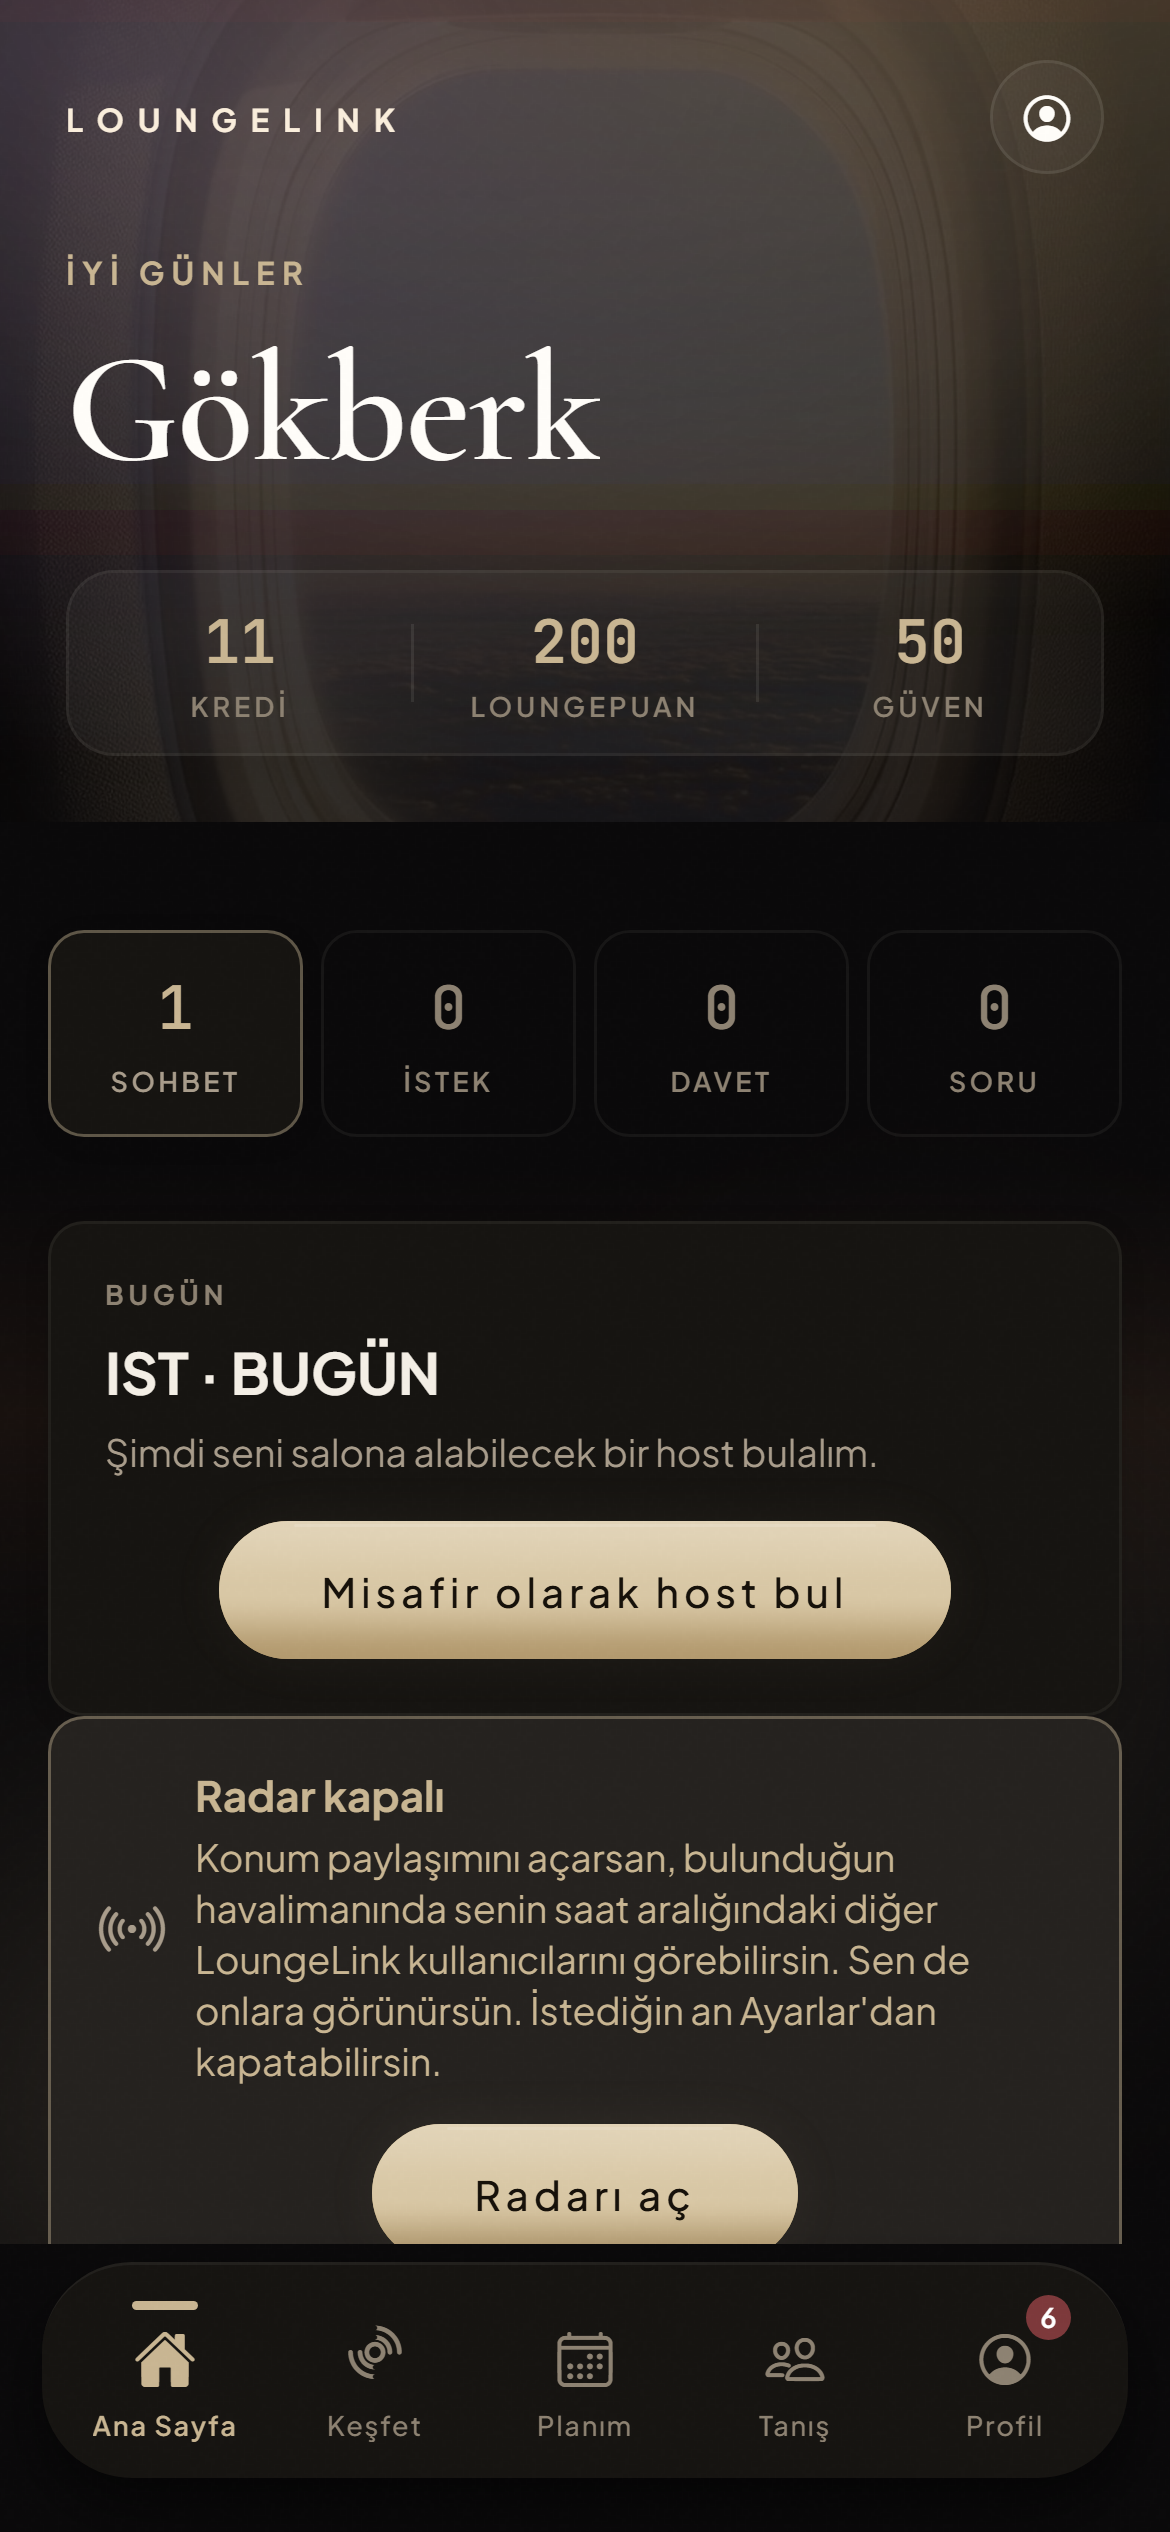
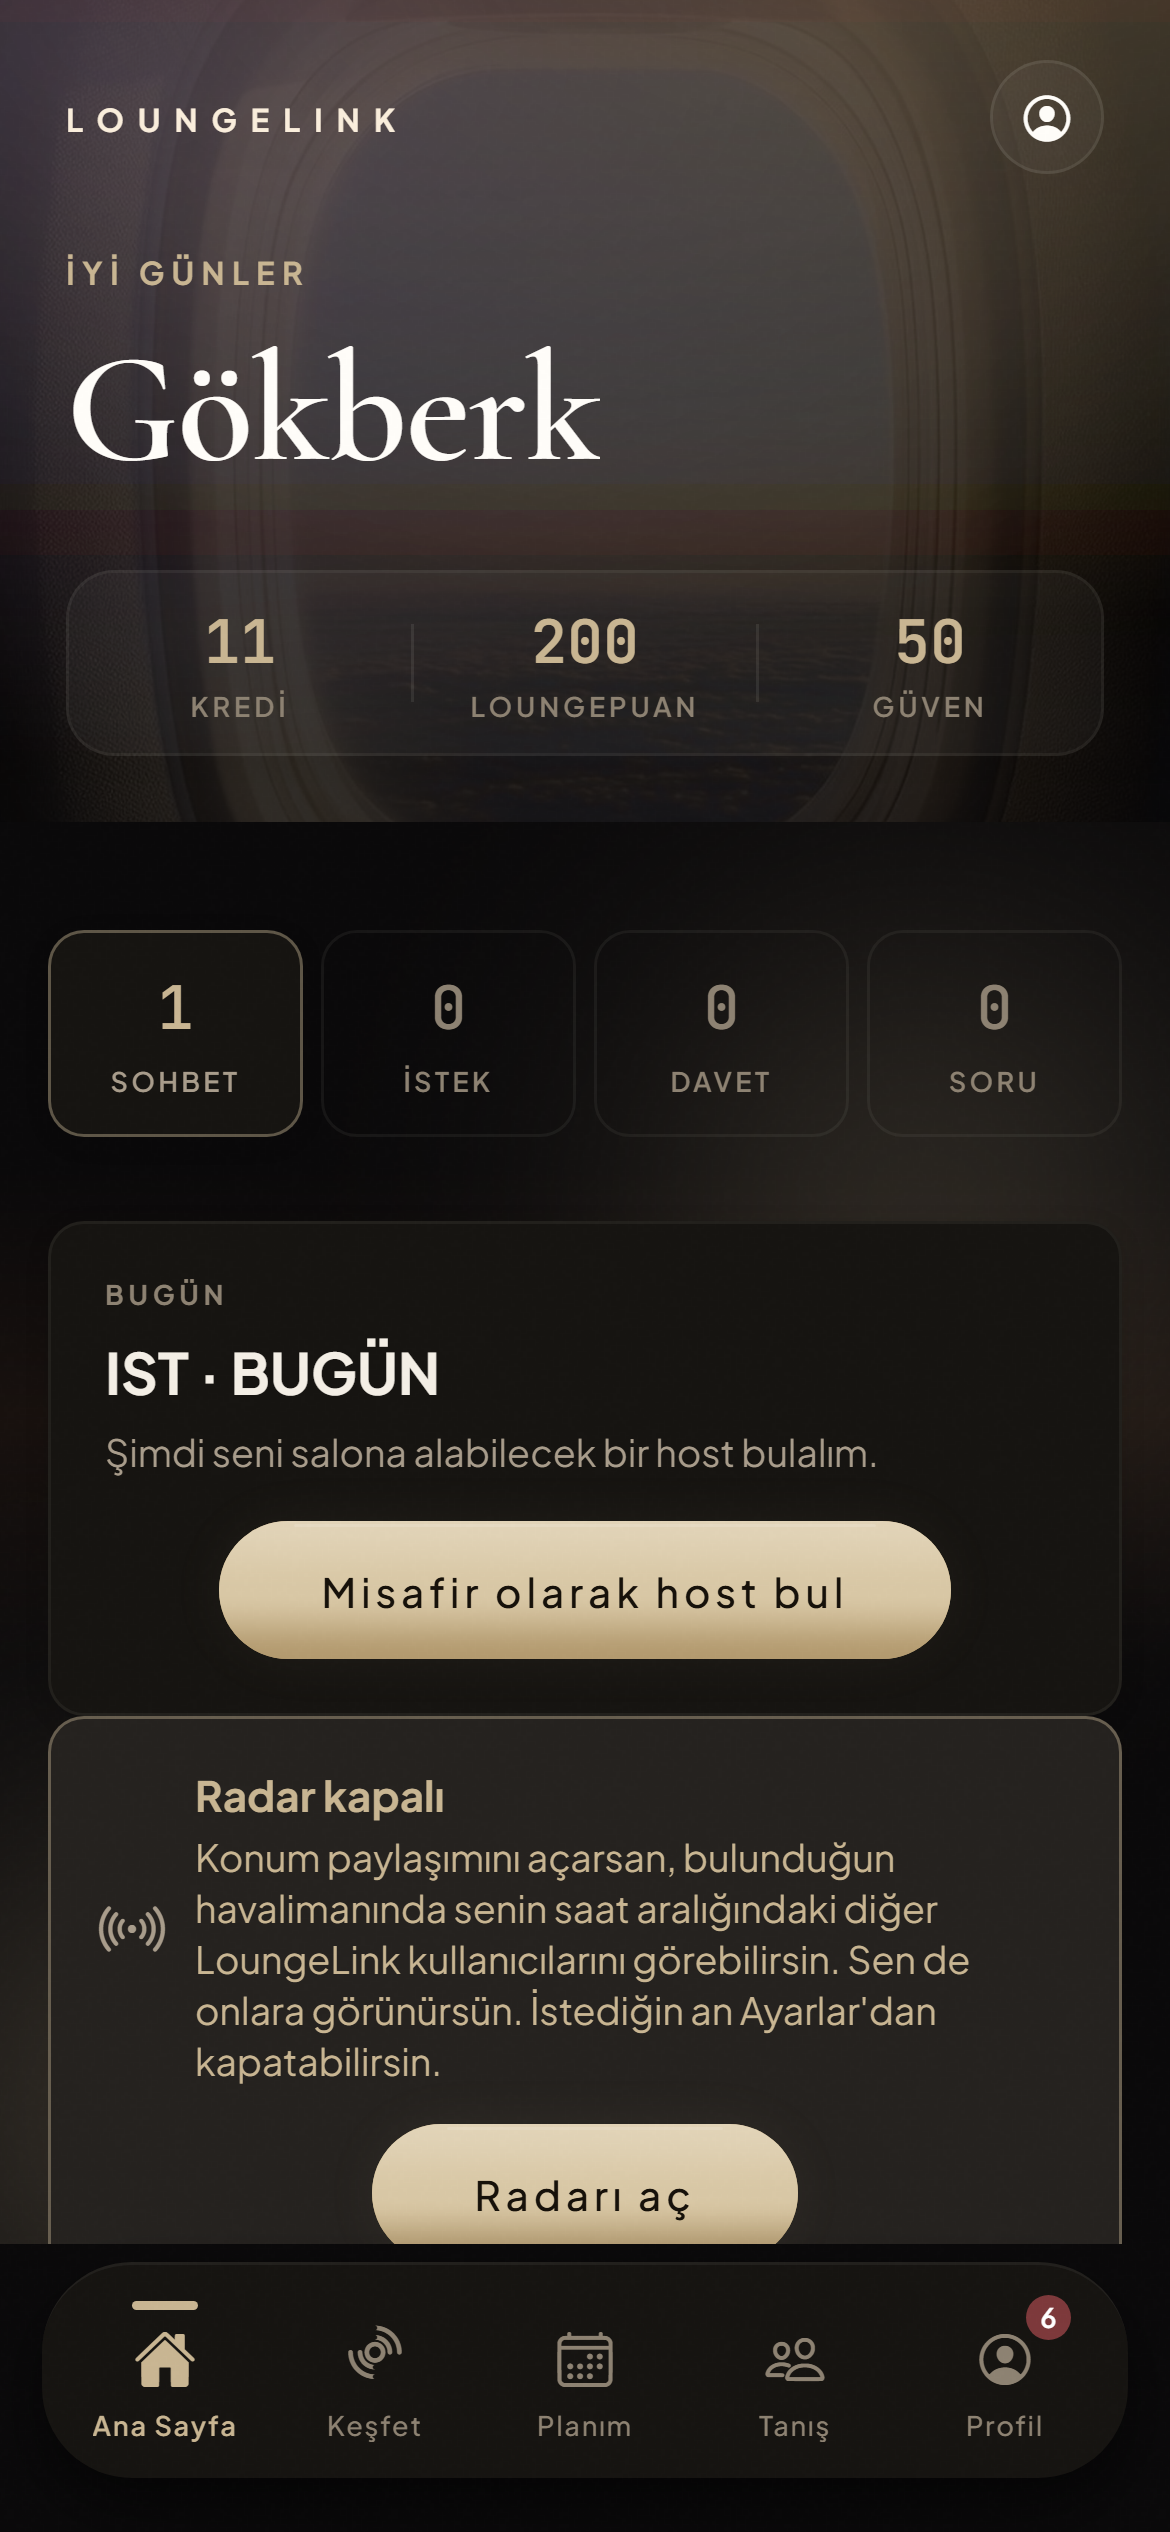
DEVIR tur 6 + web_sahne ciktilari (6.2.1)

Changed region(s): [[0.6769, 0.4056, 0.9231, 0.4992]]

diff --git a/DEVIR/2026-09-28c_yerel-birlestirme-5171-62.md b/DEVIR/2026-09-28c_yerel-birlestirme-5171-62.md
@@ -204,6 +204,49 @@ Gökberk'in gözlemleri ve kararları, ölçülerek:
 - ~~0. Site 0.69'u main'e almak~~ → yapıldı.
 - ~~1. BO push~~ → yapılmış (5d83b8f).
 
+---
+
+## TUR 6 · App 6.2.1 + site 0.69.3 + North Star önizlemesi
+
+### App 6.2.1 (vc 272 · build 266) — commit `2f0b0a5`, `9ac4f9b` · EAS build `00f9a336`
+- **K9 canlı zemin:** katman vardı ama görünmüyordu (kartlar örtüyor, opaklık %9/%12, toz zerreleri HİÇ yazılmamıştı).
+  ÖLÇÜM (9 sn arayla iki kare): önce alt bölgede %7,8 piksel, en büyük fark 13/255 → sonra %13,9 · Seyahatlerim'de 137/255.
+  Bant bölgesi (üst %22) üç ekranda **%0 değişim**. Alan %22'den, opaklık %16/%20, 6 toz zerresi.
+- **K6 sessiz pano:** `BosDurum` `pano` biçimi — istek · davet · sohbet · soru; TR+EN (`panoIstekBas`…). Pano varken kesikli çerçeve yok.
+  ⚠ Yazarken `MONO` (kalınlık tablosu) yazı tipi sanılmıştı → boş sorular ekranı ÇÖKÜYORDU; web sahnesi yakaladı, düzeltildi.
+- Gökberk'in cihaz testleri:
+  1. Puanlanan oturum ana sayfadan düşmüyordu → sohbet katmanı kapanınca `RateReminder` yeniden okur (`chat` akış tazelemesine eklendi).
+  2. **Alt çubuk iç sayfaların üstünde görünüp dokunuşu arkaya kaçırıyordu** → Android `elevation` çizim sırasını, RN dokunmayı
+     zIndex ile belirliyor. Katman çubuğu örttüğünde kapsül 0, katman 16. Ayrıca Keşfet/Bildirim katmanının altı sabit 76 yerine
+     ÖLÇÜLEN çubuk yüksekliği (~93; v6 kapsülünden beri ~17 px örtülüyordu). Web yükseltmeyi yok saydığı için sahnede görünmedi.
+  3. Uyum ekranı kartla aynı kararı veriyor (seyahat/telefon yoksa "Seyahatini ekle"/"Doğrula", değilse istek).
+  4. Tek kenar parlama (`borderTopWidth`) Android'de köşeyi izlemeden sert çiziliyordu → `ustIsik()` (ortak.js): Android'de
+     saç teli tam kenar, iOS'ta tasarımın üst ışığı. ⚠ Ekran görüntüsü gelmedi; tarife göre teşhis — cihazda teyit edilecek.
+  5. İstekler boş durumu K6 panosu, dikeyde ortalı.
+  6. "Kaldığın yerden devam et" tek satır: ölçülmüş 28 pt (`adjustsFontSizeToFit` DEĞİL — tasma_check başlığı).
+  + "Sen de misafir olabilirsin" kutusuna kapatma (cihazda hatırlanır).
+- Render, build'den ÖNCE iki çökme yakaladı (Keşfet/Profil: AsyncStorage eşzamanlı hata; yukarıdaki MONO). İkisi de düzeltildi.
+- Testler: `check.js` temiz · render **73+13+12 · 53 ekran · 37/37 · taşma 0**.
+- Windows: `pg_run.py` artık bu makinede çalışıyor (initdb --locale=C, psql -d, stdin UTF-8, tam ortam; pgserver'a tzdata).
+
+### Site 0.69.3 (önizleme dalı `site-0.69`, `821a363` — CANLIYA ALINMADI)
+- Yönlendirmeler bölümle uyumlu: güven → "Güven ve gizlilik soruları" · akış → #kapsam · "Kartım yok" → Salon rehberi.
+- "İç hat · İç Hat" tekrarı kalktı (KapsamDizini + Coverage).
+- `/kartlar`'daki havalimanı listesi **Salon rehberine yedirildi**: her havalimanında salonlar + kartınla bu terminalde (168 /kart)
+  + misafirini götürebilir misin (105 /rehber). İkinci liste kalktı. `/kartlar` = "Kartın ne veriyor, kuralı ne diyor?" (telefon 7,5 ekran).
+- Kart sayfalarında menü "Salon rehberi"ni işaretler; ekmek kırıntısı Salon rehberi.
+- `check.js` temiz (61 dosya, 19 sayfa) · `verify.js` 7/7.
+
+### North Star önizlemesi (uygulanmadı — Gökberk onayı bekliyor)
+https://claude.ai/artifact/HsGjDDnBUKcvcnUWQSyvbN — 5 ekran: ana sayfa (biniş kartı nesnesi, kutusuz doğrusal ızgara) ·
+Keşfet (fildişi kabartma uyum mührü) · Sohbet (FIDS şeridi, şafak amber %8) · biniş kartı cam sayfa · zarafet protokolü.
+
+### Bekleyen (Gökberk) — tur 6
+- 6.2.1 APK'yı cihazda dene: özellikle madde 2 (alt çubuk) ve 4 (çerçeveler — ekran görüntüsüyle teyit).
+- Site 0.69.3'ü canlıya almak ("main'e al").
+- North Star: onay / değişiklik.
+- Veri borcu: kural notlarında ASCII'leşmiş Türkçe ("UYENIN… MISAFIR YINE 30 EUR") — `kural_metni_check` tavanı 27; SQL ile düzeltilecek.
+
 ### Bekleyen (Gökberk) — eski liste, tarihçe
 0. **Site 0.69'u `main`e almak = canlı yayın.** Önizlemeyi (Vercel önizleme adresi / yerelde localhost:3069) gör, onay ver.
 1. **BO push = canlı yayın.** Otomatik izin denetimi BO `main` push'unu reddetti (onay yalnız app dalı içindi).
